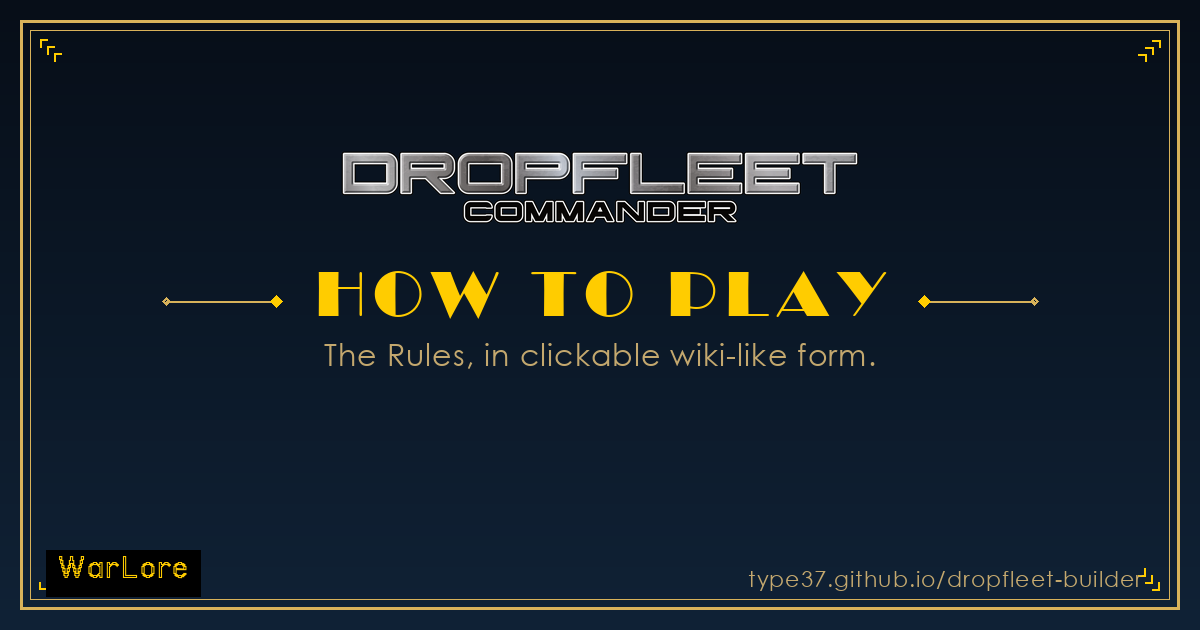
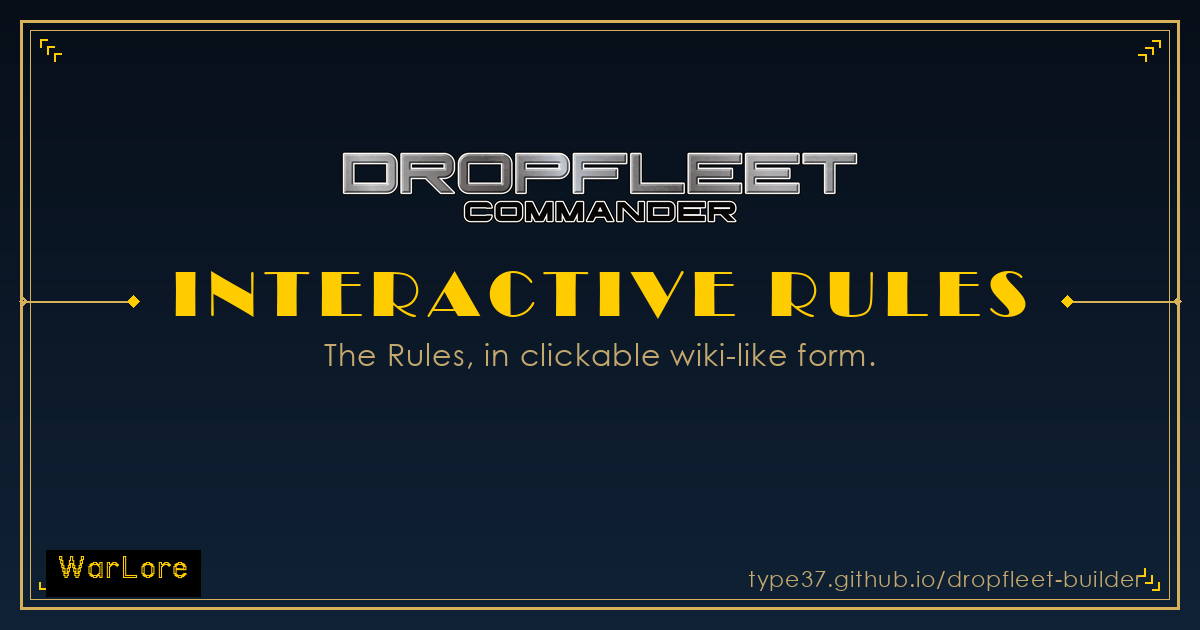
Rename Rules Reference / How to Play to Interactive Rules
Home card, desktop topbar, phone app bar and Settings entry, entry-page titles,
OG image, comments, changelog history and notes. New /interactive-rules/ link
preview page; /rules/ and #rules keep working. Phones opening #rules (bounced to
/mobile/) now land on the rules screen. sw cache v488.

Changed region(s): [[0.0308, 0.4222, 0.9558, 0.5127]]

diff --git a/mobile/js/mobile.js b/mobile/js/mobile.js
@@ -713,7 +713,7 @@
     syncBackGuard();
   }
 
-  /* ── How to Play (rules reference) ───────────────────────
+  /* ── Interactive Rules (rules reference) ───────────────────────
      A reference, not a copy of the rulebook. Two sections carry content the app
      already owns and shows — the Card Breakdown legend (STAT_META / ARC_LABELS)
      and the Special Rules glossary (RULES_DB, the verbatim keyword text the rule
@@ -1801,7 +1801,7 @@
       case 'screen-station-detail': back.classList.remove('hidden'); title.textContent = 'Space Station'; showPts(); break;
       case 'screen-play': back.classList.remove('hidden'); title.textContent = (mPlayFleet ? esc(mPlayFleet.name) + ', Play' : 'Play Mode'); break;
       case 'screen-collection': back.classList.remove('hidden'); title.textContent = 'My Collection'; break;
-      case 'screen-rules': back.classList.remove('hidden'); title.textContent = 'Rules Reference'; break;
+      case 'screen-rules': back.classList.remove('hidden'); title.textContent = 'Interactive Rules'; break;
     }
   }
 
@@ -4644,14 +4644,17 @@
   // What's New — TTCombat publishes no official changelog, so this is the
   // maintainer's interpretation. Mirrors the desktop changelog.
   const CHANGELOG = [
+    { date: '2026-09-13', title: 'Rules Reference is now Interactive Rules', items: [
+      'The searchable, linked rulebook in Settings is now called Interactive Rules. A link to it opens straight onto the rules on a phone too.',
+    ]},
     { date: '2026-09-13', title: 'Desktop app: print preview ability names wrap', items: [
       'On a narrow window the desktop print preview’s Abilities table keeps its rows, so each name wraps beside its AP cost instead of being cut off.',
     ]},
     { date: '2026-09-13', title: 'Desktop app: nothing scrolls sideways on a narrow window', items: [
-      'The desktop builder, print preview, How to Play, the scenario list and the faction quick references all fit a narrow screen instead of scrolling sideways.',
+      'The desktop builder, print preview, Interactive Rules, the scenario list and the faction quick references all fit a narrow screen instead of scrolling sideways.',
     ]},
     { date: '2026-09-13', title: 'Nothing scrolls sideways', items: [
-      'The ship picker filters and the Collection faction tabs wrap onto more lines, and How to Play tables fit the screen, so no part of the phone app scrolls sideways.',
+      'The ship picker filters and the Collection faction tabs wrap onto more lines, and Interactive Rules tables fit the screen, so no part of the phone app scrolls sideways.',
     ]},
     { date: '2026-09-13', title: 'Credits stay in view on the fleet list', items: [
       'The credits line rides just above the Create Fleet bar as you scroll the fleet list, and settles above the WarLore footer when you reach it.',
@@ -4684,7 +4687,7 @@
     { date: '2026-09-12', title: 'Lore: hull length and displacement', items: [
       'The Armstrong Destroyer, Aldrin Colony Ship, Collins Support Carrier, Helium Voidflyer, Harpocrates Guerrilla Lighter, Hiruko Boarding Cutter, Seneca Detonator, Newton Kill-Sat, Galileo Orbital Telescope and Pungari Thresher Hive Ship show their Length and Displacement under their lore, and the Pungari its Beam and Height too.',
     ]},
-    { date: '2026-09-12', title: 'How to Play: four tables put back together', items: [
+    { date: '2026-09-12', title: 'Interactive Rules: four tables put back together', items: [
       'Four rulebook tables that had come through as loose lines are proper tables again: the Tonnage restrictions, the core Ability costs, the Game Round phases, and the Battalion deployment targets. Same words as the book, in their grid.',
     ]},
     { date: '2026-09-12', title: 'Export PDF: cleaner sheet', items: [
@@ -4706,7 +4709,7 @@
       'Printing from the fleet list no longer prints the last fleet you opened.',
       'A shared fleet link can no longer put markup or script onto the sheet, and its points are recalculated from the ship data.',
     ]},
-    { date: '2026-09-11', title: 'How to Play: the Dropsite icons', items: [
+    { date: '2026-09-11', title: 'Interactive Rules: the Dropsite icons', items: [
       'The Dropsites table shows each type’s icon, the S, M and L station discs and the city blocks, lifted from the rulebook page.',
     ]},
     { date: '2026-09-11', title: 'Scenarios: every published scenario, and a separate generator', items: [
@@ -4727,19 +4730,19 @@
       'Tap a Micrometeor Cloud, Dense Debris Field, Planetary Ring or Large Object, on a map or in the scenery text, to read its rules. That text is now the rulebook’s own, word for word: Large Objects had been reworded, and bold the book does not print had been added.',
       'Orbital Support’s map shows the Medium Space Station with its Military Outposts. Turn its Variant on and they become Hangars on the map, stats included.',
     ]},
-    { date: '2026-09-11', title: 'How to Play: the whole rulebook', items: [
-      'How to Play now carries the entire Dropfleet Commander rulebook, verbatim, the same as the desktop app. Every chapter, section and table is there to read.',
+    { date: '2026-09-11', title: 'Interactive Rules: the whole rulebook', items: [
+      'Interactive Rules now carries the entire Dropfleet Commander rulebook, verbatim, the same as the desktop app. Every chapter, section and table is there to read.',
       'The example ship card and the legend open chapter 1; the book’s diagrams (Base Contact, Coherency, weapon Arcs, Move, the Explosion chain) sit with the rule they show; the searchable Special Rules glossary lives under chapter 14.',
       'It cross-links: tap a section number, a rule name or a keyword to jump to where it is defined. Tap Scenarios to open the full Scenario Reference.',
       'The token counters appear inline with the rule that uses them (Atmosphere, Spikes, Crippling Effects, Launch assets, Dropsite features, Battalion, Activation and Pass), plus the full Tokens reference at the end.',
     ]},
-    { date: '2026-09-09', title: 'How to Play: the tokens, as they look on the table', items: [
-      'How to Play has a new Tokens section showing every counter off the official downloadable token sheet: Spikes, the six Crippling Effects, the Atmosphere marker, and the Dropsite Features and City.',
+    { date: '2026-09-09', title: 'Interactive Rules: the tokens, as they look on the table', items: [
+      'Interactive Rules has a new Tokens section showing every counter off the official downloadable token sheet: Spikes, the six Crippling Effects, the Atmosphere marker, and the Dropsite Features and City.',
       'Each Crippling Effect shows the 2D6 result that causes it, so you can read the whole table off the pictures.',
       'They are the real tokens, traced as vector from the official sheet, so they are the same shapes sitting in front of you.',
     ]},
-    { date: '2026-09-01', title: 'How to Play: a searchable special-rules reference', items: [
-      'Settings now has How to Play. It opens a Card Breakdown legend, what every stat, arc, damage type and tonnage letter on a ship card means, and a searchable list of every special rule. Tap any rule to read it.',
+    { date: '2026-09-01', title: 'Interactive Rules: a searchable special-rules reference', items: [
+      'Settings now has Interactive Rules. It opens a Card Breakdown legend, what every stat, arc, damage type and tonnage letter on a ship card means, and a searchable list of every special rule. Tap any rule to read it.',
       'Type in the search box to filter the rules instantly, or use the numbered section jumps at the top.',
       'For the full rules, each section links straight to the official Dropfleet Commander rulebook, a free download from TTCombat.',
     ]},
@@ -5064,7 +5067,7 @@
       { icon: 'copy', label: `Back up all fleets (${fleets.length})`, action: exportAllFleets, disabled: !fleets.length },
       { icon: 'edit', label: 'Restore or import a fleet…', action: importFleetPrompt },
       { icon: 'duplicate', label: 'My Collection', action: openCollection },
-      { icon: 'menu_book', label: 'Rules Reference', action: () => navigate('screen-rules') },
+      { icon: 'menu_book', label: 'Interactive Rules', action: () => navigate('screen-rules') },
       { icon: 'new_releases', label: "What's New", action: openChangelog },
       { icon: 'mail', label: 'Send feedback', action: () => { window.location.href = FEEDBACK_HREF; } },
       { icon: 'bug_report', label: 'Report a bug (with screenshot)', action: () => { window.open(BUG_HREF, '_blank', 'noopener'); } },
@@ -6670,6 +6673,23 @@
 
     renderFleetList();
     navigate('screen-fleet-list', { replace: true });
+    // A #rules or #rules/<id> link (the desktop Interactive Rules route, which a
+    // phone is bounced here with) opens Interactive Rules over the fleet list, so
+    // Back still lands somewhere.
+    const rulesLink = location.hash.match(/^#rules(?:\/(.+))?$/);
+    if (rulesLink) {
+      navigate('screen-rules');
+      // The rulebook loads async, so wait (up to ~5s) for the section to exist.
+      if (rulesLink[1]) {
+        const id = decodeURIComponent(rulesLink[1]);
+        let tries = 0;
+        const tryJump = () => {
+          if (document.getElementById('rules-sec-' + id)) jumpMobileRules(id);
+          else if (++tries < 25) setTimeout(tryJump, 200);
+        };
+        tryJump();
+      }
+    }
     setTimeout(maybeShowOfflineTip, 1200);
 
     // Pull anything another device changed while this one was closed. Runs after

diff --git a/js/app.js b/js/app.js
@@ -1010,7 +1010,7 @@ let activeGroupId = null;
         break;
       case 'rules':
         show('view-rules');
-        topContext.innerHTML = `<a href="#landing" class="topbar-back" onclick="App.navigate('landing'); return false;"><svg width="14" height="14" viewBox="0 0 16 16" fill="none" stroke="currentColor" stroke-width="2" stroke-linecap="round" stroke-linejoin="round"><path d="M10 2L4 8l6 6"/></svg></a> Rules Reference`;
+        topContext.innerHTML = `<a href="#landing" class="topbar-back" onclick="App.navigate('landing'); return false;"><svg width="14" height="14" viewBox="0 0 16 16" fill="none" stroke="currentColor" stroke-width="2" stroke-linecap="round" stroke-linejoin="round"><path d="M10 2L4 8l6 6"/></svg></a> Interactive Rules`;
         renderRules(param);
         break;
       default:
@@ -1022,7 +1022,7 @@ let activeGroupId = null;
     document.getElementById(id).classList.remove('hidden');
   }
 
-  // ── How to Play (rulebook) ────────────────────────────────────────────────
+  // ── Interactive Rules (rulebook) ────────────────────────────────────────────────
   // The whole A5 rulebook, verbatim, lifted into data/rules-wiki.json by
   // scripts/extract-rules-wiki.py (a tree of chapter -> section -> subsection,
   // each carrying its number, heading, paragraphs and tables, with bold runs
@@ -1056,7 +1056,7 @@ let activeGroupId = null;
   ];
 
   // Which token groups belong inline with which section (by number). They still
-  // all appear together in the Tokens reference at the end of How to Play.
+  // all appear together in the Tokens reference at the end of Interactive Rules.
   const SECTION_TOKENS = {
     '3.1.2': ['atmosphere'],
     '3.3':   ['spikes'],
@@ -8933,14 +8933,17 @@ let activeGroupId = null;
   // this is the maintainer's best-effort interpretation of edition changes plus
   // the builder's own feature history. Newest first.
   const CHANGELOG = [
+    { date: '2026-09-13', title: 'Rules Reference is now Interactive Rules', items: [
+      'The searchable, linked rulebook on the home screen is now called Interactive Rules. Links to the old page still open it.',
+    ]},
     { date: '2026-09-13', title: 'Print preview: ability names wrap', items: [
       'On a narrow screen the print preview’s Abilities table keeps its rows, so each name wraps beside its AP cost instead of being cut off.',
     ]},
     { date: '2026-09-13', title: 'Nothing scrolls sideways on a narrow window', items: [
-      'The builder, ship picker, admiral and station pickers, play mode, print preview, How to Play, the scenario list and the faction quick references all fit a narrow screen instead of scrolling sideways.',
+      'The builder, ship picker, admiral and station pickers, play mode, print preview, Interactive Rules, the scenario list and the faction quick references all fit a narrow screen instead of scrolling sideways.',
     ]},
     { date: '2026-09-13', title: 'Phone app: nothing scrolls sideways', items: [
-      'On the phone app the ship picker filters and Collection faction tabs wrap onto more lines, and How to Play tables fit the screen.',
+      'On the phone app the ship picker filters and Collection faction tabs wrap onto more lines, and Interactive Rules tables fit the screen.',
     ]},
     { date: '2026-09-13', title: 'Phone app: credits stay in view', items: [
       'On the phone app’s fleet list the credits line rides just above the Create Fleet bar, and settles above the WarLore footer when you reach it.',
@@ -8978,7 +8981,7 @@ let activeGroupId = null;
     { date: '2026-09-12', title: 'Lore: hull length and displacement', items: [
       'The Armstrong Destroyer, Aldrin Colony Ship, Collins Support Carrier, Helium Voidflyer, Harpocrates Guerrilla Lighter, Hiruko Boarding Cutter, Seneca Detonator, Newton Kill-Sat, Galileo Orbital Telescope and Pungari Thresher Hive Ship show their Length and Displacement under their lore, and the Pungari its Beam and Height too.',
     ]},
-    { date: '2026-09-12', title: 'How to Play: four tables put back together', items: [
+    { date: '2026-09-12', title: 'Interactive Rules: four tables put back together', items: [
       'Four rulebook tables that had come through as loose lines are proper tables again: the Tonnage restrictions, the core Ability costs, the Game Round phases, and the Battalion deployment targets. Same words as the book, in their grid.',
     ]},
     { date: '2026-09-12', title: 'Print: every Ability you can use', items: [
@@ -9003,7 +9006,7 @@ let activeGroupId = null;
       'A shared fleet link can no longer put markup or script onto the print sheet.',
       'Keywords like Fusillade-2 no longer split across lines, and faint labels are darker.',
     ]},
-    { date: '2026-09-11', title: 'How to Play: a centred read, and the Dropsite icons', items: [
+    { date: '2026-09-11', title: 'Interactive Rules: a centred read, and the Dropsite icons', items: [
       'The rulebook now reads as a centred column down the middle of the page, with the chapter list out in the left margin.',
       'The Dropsites table shows each type’s icon, the S, M and L station discs and the city blocks, lifted from the rulebook page.',
     ]},
@@ -9025,21 +9028,21 @@ let activeGroupId = null;
       'Hover or tap a Micrometeor Cloud, Dense Debris Field, Planetary Ring or Large Object, on a map or in the scenery text, to read its rules. That text is now the rulebook’s own, word for word: Large Objects had been reworded, and bold the book does not print had been added.',
       'Orbital Support’s map shows the Medium Space Station with its Military Outposts. Turn its Variant on and they become Hangars on the map, stats included.',
     ]},
-    { date: '2026-09-11', title: 'How to Play: the whole rulebook, on one page', items: [
-      'How to Play now carries the entire Dropfleet Commander rulebook, verbatim, not just a legend and a glossary. Every chapter, section and table is there to read in the app.',
+    { date: '2026-09-11', title: 'Interactive Rules: the whole rulebook, on one page', items: [
+      'Interactive Rules now carries the entire Dropfleet Commander rulebook, verbatim, not just a legend and a glossary. Every chapter, section and table is there to read in the app.',
       'A chapter list runs down the left, the way a style guide reads. Pick a chapter to jump to it; the list follows you as you scroll.',
       'Chapter 1 opens with the example ship card from page 5 and the legend that names every stat, arc, damage type and tonnage letter on it.',
       'The book’s diagrams are in too: Base Contact, Coherency, the weapon Arcs, Move and the Explosion chain, each sitting with the rule it illustrates.',
       'The Tokens section now explains the Launch assets too, Fighters, Bombers, Fire Ships, Torpedoes, Mines and Battalions, plus the Activation and Pass tokens, each with the real counter beside it.',
       'It cross-links like the book does. Every section number, rule name and keyword in the text is a link to where it is defined, and the Back button takes you straight back to where you were reading.',
     ]},
-    { date: '2026-09-09', title: 'How to Play: the tokens, as they look on the table', items: [
-      'How to Play has a new Tokens section showing every counter off the official downloadable token sheet: Spikes, the six Crippling Effects, the Atmosphere marker, and the Dropsite Features and City.',
+    { date: '2026-09-09', title: 'Interactive Rules: the tokens, as they look on the table', items: [
+      'Interactive Rules has a new Tokens section showing every counter off the official downloadable token sheet: Spikes, the six Crippling Effects, the Atmosphere marker, and the Dropsite Features and City.',
       'Each Crippling Effect shows the 2D6 result that causes it, so you can read the whole table off the pictures.',
       'They are the real tokens, traced as vector from the official sheet, so they are the same shapes sitting in front of you.',
     ]},
-    { date: '2026-09-01', title: 'How to Play: a searchable special-rules reference', items: [
-      'A new How to Play tool on the home screen. It opens a Card Breakdown legend, what every stat, arc, damage type and tonnage letter on a ship card means, and a searchable list of every special rule, each with its rulebook page.',
+    { date: '2026-09-01', title: 'Interactive Rules: a searchable special-rules reference', items: [
+      'A new Interactive Rules tool on the home screen. It opens a Card Breakdown legend, what every stat, arc, damage type and tonnage letter on a ship card means, and a searchable list of every special rule, each with its rulebook page.',
       'Type in the search box to filter the rules instantly, or use the numbered section jumps at the top.',
       'For the full rules, each section links straight to the official Dropfleet Commander rulebook, a free download from TTCombat.',
     ]},

diff --git a/mobile/css/mobile.css b/mobile/css/mobile.css
@@ -3234,14 +3234,14 @@ body.sheet-open .sheet-scrim {
 .coll-badge-ok { color: #1f5c37; background: rgba(31,92,55,0.10); }
 .coll-badge-none { color: var(--fg3); background: var(--paper-alt); }
 
-/* ── How to Play (rules reference, renderMobileRules in mobile.js) ── */
+/* ── Interactive Rules (rules reference, renderMobileRules in mobile.js) ── */
 #screen-rules { padding: var(--sp-l); }
 .rules-intro p { margin: 0 0 var(--sp-s); color: var(--fg2); }
 .rules-pills { display: flex; flex-wrap: wrap; gap: var(--sp-xs); position: sticky; top: var(--header-h); z-index: 15; background: var(--paper); padding: var(--sp-s) 0; margin: 0 calc(var(--sp-l) * -1); padding-left: var(--sp-l); padding-right: var(--sp-l); border-bottom: 1px solid var(--stroke1); }
 .rules-pill { display: inline-flex; align-items: center; gap: 5px; font-size: var(--text-caption2); padding: 4px 9px; border: 1px solid var(--stroke1); border-radius: 999px; background: var(--paper); color: var(--fg2); }
 .rules-pill-n { color: var(--fg3); font-weight: 700; font-variant-numeric: tabular-nums; }
 .rules-section { scroll-margin-top: calc(var(--header-h) + 44px); padding-top: var(--sp-m); }
-/* ── How to Play: the token plate ─────────────────────────────────────────
+/* ── Interactive Rules: the token plate ─────────────────────────────────────────
    Names wrap under the art instead of truncating; "Defence Systems Offline"
    is the longest and has to read in full on a phone. */
 .rules-tok-grp { margin-bottom: var(--sp-m, 16px); }
@@ -3270,7 +3270,7 @@ body.sheet-open .sheet-scrim {
 .rules-kw-chev { color: var(--fg3); font-size: 1.2em; }
 .rules-note { color: var(--fg3); font-size: var(--text-caption1); }
 
-/* ── How to Play: full rulebook wiki (mobile) ─────────────────────────────── */
+/* ── Interactive Rules: full rulebook wiki (mobile) ─────────────────────────────── */
 .rules-chapter { scroll-margin-top: calc(var(--header-h) + 48px); margin-bottom: var(--sp-xl, 22px); }
 .rules-chapter-title { display: flex; align-items: baseline; gap: var(--sp-s); font-family: var(--font-display); font-weight: 800; font-size: 24px; line-height: 1.15; text-transform: uppercase; letter-spacing: .01em; color: var(--fg1); margin: 0 0 var(--sp-m); padding-bottom: var(--sp-xs); border-bottom: 3px solid var(--navy); }
 .rules-chapter-n { font-size: .68em; color: var(--navy); font-weight: 800; font-variant-numeric: tabular-nums; }

diff --git a/interactive-rules/index.html b/interactive-rules/index.html
@@ -4,12 +4,13 @@
 <meta charset="UTF-8">
 <meta name="viewport" content="width=device-width, initial-scale=1.0">
 <title>Dropfleet Commander: Interactive Rules</title>
-<!-- A tiny entry page so the Interactive Rules route has its own link preview: the
-     app itself lives at a #rules hash, which crawlers cannot read. This page
-     carries the preview tags and sends a visitor straight into the app. -->
+<!-- A tiny entry page so Interactive Rules has its own link preview: the app
+     itself lives at a #rules hash, which crawlers cannot read. This page carries
+     the preview tags and sends a visitor straight into the app. The older
+     /rules/ entry page does the same, so links already shared keep working. -->
 <meta name="description" content="Searchable, linked version of the rulebook with token reference.">
 <meta property="og:type" content="website">
-<meta property="og:url" content="https://type37.github.io/dropfleet-builder/rules/">
+<meta property="og:url" content="https://type37.github.io/dropfleet-builder/interactive-rules/">
 <meta property="og:title" content="Dropfleet Commander: Interactive Rules">
 <meta property="og:description" content="Searchable, linked version of the rulebook with token reference.">
 <meta property="og:image" content="https://type37.github.io/dropfleet-builder/assets/og/rules.png">
@@ -22,7 +23,7 @@
 <meta name="twitter:image" content="https://type37.github.io/dropfleet-builder/assets/og/rules.png">
 <link rel="canonical" href="https://type37.github.io/dropfleet-builder/#rules">
 <meta http-equiv="refresh" content="0; url=../#rules">
-<script>location.replace('../#rules');</script>
+<script>location.replace('../#rules' + (location.hash.indexOf('#rules/') === 0 ? location.hash.slice(6) : ''));</script>
 <style>
   body { margin: 0; min-height: 100vh; display: grid; place-items: center; background: #0a121e; color: #c4a86e; font-family: "Roboto Slab", Georgia, serif; }
   a { color: #ffcc00; }

diff --git a/css/app.css b/css/app.css
@@ -7971,7 +7971,7 @@ html[data-theme="dark"] .play-launch-val { color: #64b5f6; background: rgba(100,
 .play-weapons-wrap { overflow-x: auto; -webkit-overflow-scrolling: touch; max-width: 100%; }
 .play-weapons { min-width: 0; }
 
-/* ── How to Play (rules reference, renderRules in js/app.js) ── */
+/* ── Interactive Rules (rules reference, renderRules in js/app.js) ── */
 .rules-view { max-width: 1360px; margin: 0 auto; padding: var(--sp-xl) var(--sp-lg) var(--sp-2xl); }
 .rules-wrap { display: flex; flex-direction: column; gap: var(--sp-lg); }
 .rules-intro { display: flex; align-items: center; justify-content: space-between; gap: var(--sp-md); flex-wrap: wrap; }
@@ -7986,7 +7986,7 @@ html[data-theme="dark"] .play-launch-val { color: #64b5f6; background: rgba(100,
 .rules-rulebook-link { display: inline-flex; align-items: center; gap: 6px; color: var(--navy); text-decoration: none; font-size: var(--text-sm); }
 .rules-rulebook-link:hover { text-decoration: underline; }
 
-/* ── How to Play: the token plate ─────────────────────────────────────────
+/* ── Interactive Rules: the token plate ─────────────────────────────────────────
    Vector cut from TTCombat's downloadable sheet. Names sit under the art and
    wrap rather than truncate: "Defence Systems Offline" is the longest and it
    must read in full. */

diff --git a/index.html b/index.html
@@ -138,11 +138,11 @@
         <p class="tool-card-desc">Randomized scenarios with deployment zones and objectives.</p>
       </div>
       <div class="tool-card tool-card--rules card-deco" onclick="App.navigate('rules')">
-        <div class="tool-card-shot" style="background-image:url(assets/screens/how-to-play.webp)"></div>
+        <div class="tool-card-shot" style="background-image:url(assets/screens/interactive-rules.webp)"></div>
         <div class="tool-card-icon">
           <svg width="32" height="32" viewBox="0 0 24 24" fill="none" stroke="currentColor" stroke-width="1.6" stroke-linecap="round" stroke-linejoin="round"><path d="M4 4.5A2.5 2.5 0 0 1 6.5 2H20v15H6.5A2.5 2.5 0 0 0 4 19.5z"/><path d="M4 19.5A2.5 2.5 0 0 0 6.5 22H20"/><path d="M9 7h7M9 10.5h7"/></svg>
         </div>
-        <h2 class="tool-card-title">Rules Reference</h2>
+        <h2 class="tool-card-title">Interactive Rules</h2>
         <p class="tool-card-desc">Searchable, linked version of the rulebook with token reference.</p>
       </div>
       <div class="tool-card tool-card--calc card-deco" onclick="App.navigate('calc')">
@@ -273,7 +273,7 @@
     <!-- Rendered by js/calc-ui.js -->
   </section>
 
-  <!-- ── How to Play (rules reference) ── -->
+  <!-- ── Interactive Rules (rules reference) ── -->
   <section class="hidden rules-view" id="view-rules">
     <!-- Rendered by renderRules() in js/app.js -->
   </section>

diff --git a/sw.js b/sw.js
@@ -3,7 +3,7 @@
 // populating the cache as resources are fetched.
 // Bump this on every deploy so existing clients purge the old cache on activate
 // (the app updates frequently — stale assets must not survive a new build).
-const CACHE = 'dfc-cache-v487';
+const CACHE = 'dfc-cache-v488';
 // Same-origin code/data that MUST be fresh when online. Network-first alone is
 // not enough: fetch() still consults the browser HTTP cache, so a client can
 // keep running a stale app.js for as long as GitHub Pages' cache headers allow.

diff --git a/mobile/index.html b/mobile/index.html
@@ -169,7 +169,7 @@
   </div>
 </main>
 
-<!-- How to Play (rules reference) -->
+<!-- Interactive Rules (rules reference) -->
 <main class="screen screen-padded" id="screen-rules">
   <div id="rules-container">
     <!-- Populated by App.renderMobileRules() -->

diff --git a/scripts/gen-og-rules.py b/scripts/gen-og-rules.py
@@ -1,7 +1,7 @@
 #!/usr/bin/env python3
-"""Build the How to Play link-preview image: the same gold-on-navy Art Deco
+"""Build the Interactive Rules link-preview image: the same gold-on-navy Art Deco
 frame as the main banner, but plain, no faction band. The DROPFLEET COMMANDER
-chrome wordmark, HOW TO PLAY in Broadway, a one-line subtitle, WarLore footer.
+chrome wordmark, INTERACTIVE RULES in Broadway, a one-line subtitle, WarLore footer.
 Run: python scripts/gen-og-rules.py  ->  assets/og/rules.png
 """
 import os, tempfile
@@ -77,10 +77,10 @@ lh = int(logo.height * lw / logo.width)
 logo = logo.resize((lw, lh), Image.LANCZOS)
 canvas.paste(logo, ((W - lw) // 2, 150), logo)
 
-# HOW TO PLAY (Broadway) with flanking Deco rules
+# INTERACTIVE RULES (Broadway) with flanking Deco rules
 title_y = 150 + lh + 30
 tf = broadway(66)
-title = 'HOW TO PLAY'
+title = 'INTERACTIVE RULES'
 tw_ = tw(draw, title, tf, 8)
 center_tracked(draw, title, tf, title_y, GOLD_BRIGHT, 8)
 ry = title_y + 46

diff --git a/scripts/gen-offline-manifest.py b/scripts/gen-offline-manifest.py
@@ -48,7 +48,7 @@ DIR_GROUPS = [
     # Play Mode's Spike and Crippling-Effect counters. Tiny, and Play Mode is the
     # one screen most likely to be used with no signal, so they belong in core.
     ('core', 'assets/tokens', ('.svg',)),
-    # How-to-Play rulebook illustrations (the page-5 example ship card).
+    # Interactive Rules rulebook illustrations (the page-5 example ship card).
     ('core', 'assets/rules', ('.png', '.webp', '.svg')),
     ('art', 'assets/art/thumb', ('.webp',)),
     ('art', 'assets/art/stations', ('.webp',)),

diff --git a/scripts/gen-landing-previews.py b/scripts/gen-landing-previews.py
@@ -24,7 +24,7 @@ OUT = pathlib.Path(__file__).resolve().parent.parent / "assets" / "screens"
 # own pages. The slug is what index.html references in .tool-card-shot.
 SHOTS = {
     "fleet-builder": f"{BASE}/index.html#fleets",
-    "how-to-play":   f"{BASE}/index.html#rules",
+    "interactive-rules": f"{BASE}/index.html#rules",
     "combat-calc":   f"{BASE}/index.html#calc",
     "mission-maker": f"{BASE}/scenarios/dropfleet/generator/",
     "scenarios":     f"{BASE}/scenarios/dropfleet/",

diff --git a/scripts/patch-rules-wiki.py b/scripts/patch-rules-wiki.py
@@ -262,7 +262,7 @@ def fix_battalions(ch):
     return True
 
 
-# Fiction that bled in from a facing page. How to Play carries rules only, so
+# Fiction that bled in from a facing page. Interactive Rules carries rules only, so
 # these narrative paragraphs are dropped (matched by their opening words).
 FLAVOR_STRIP = {
     "13.1": [
